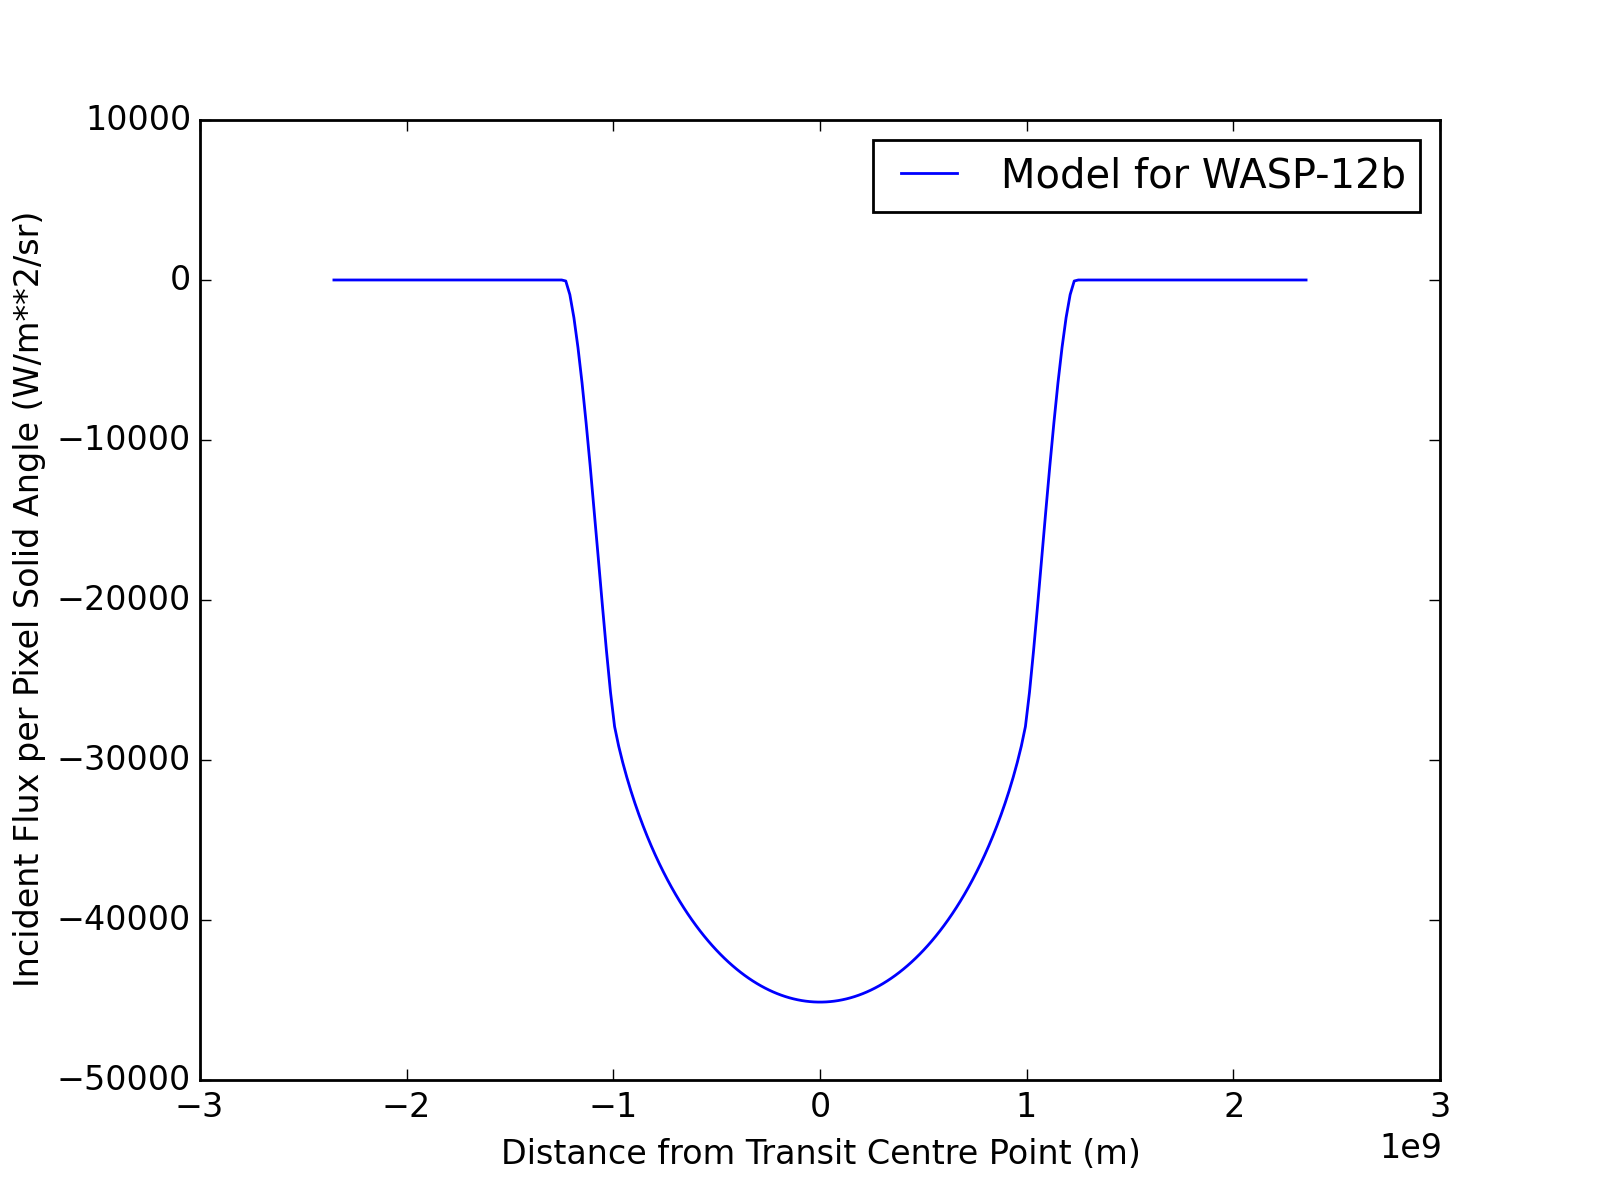
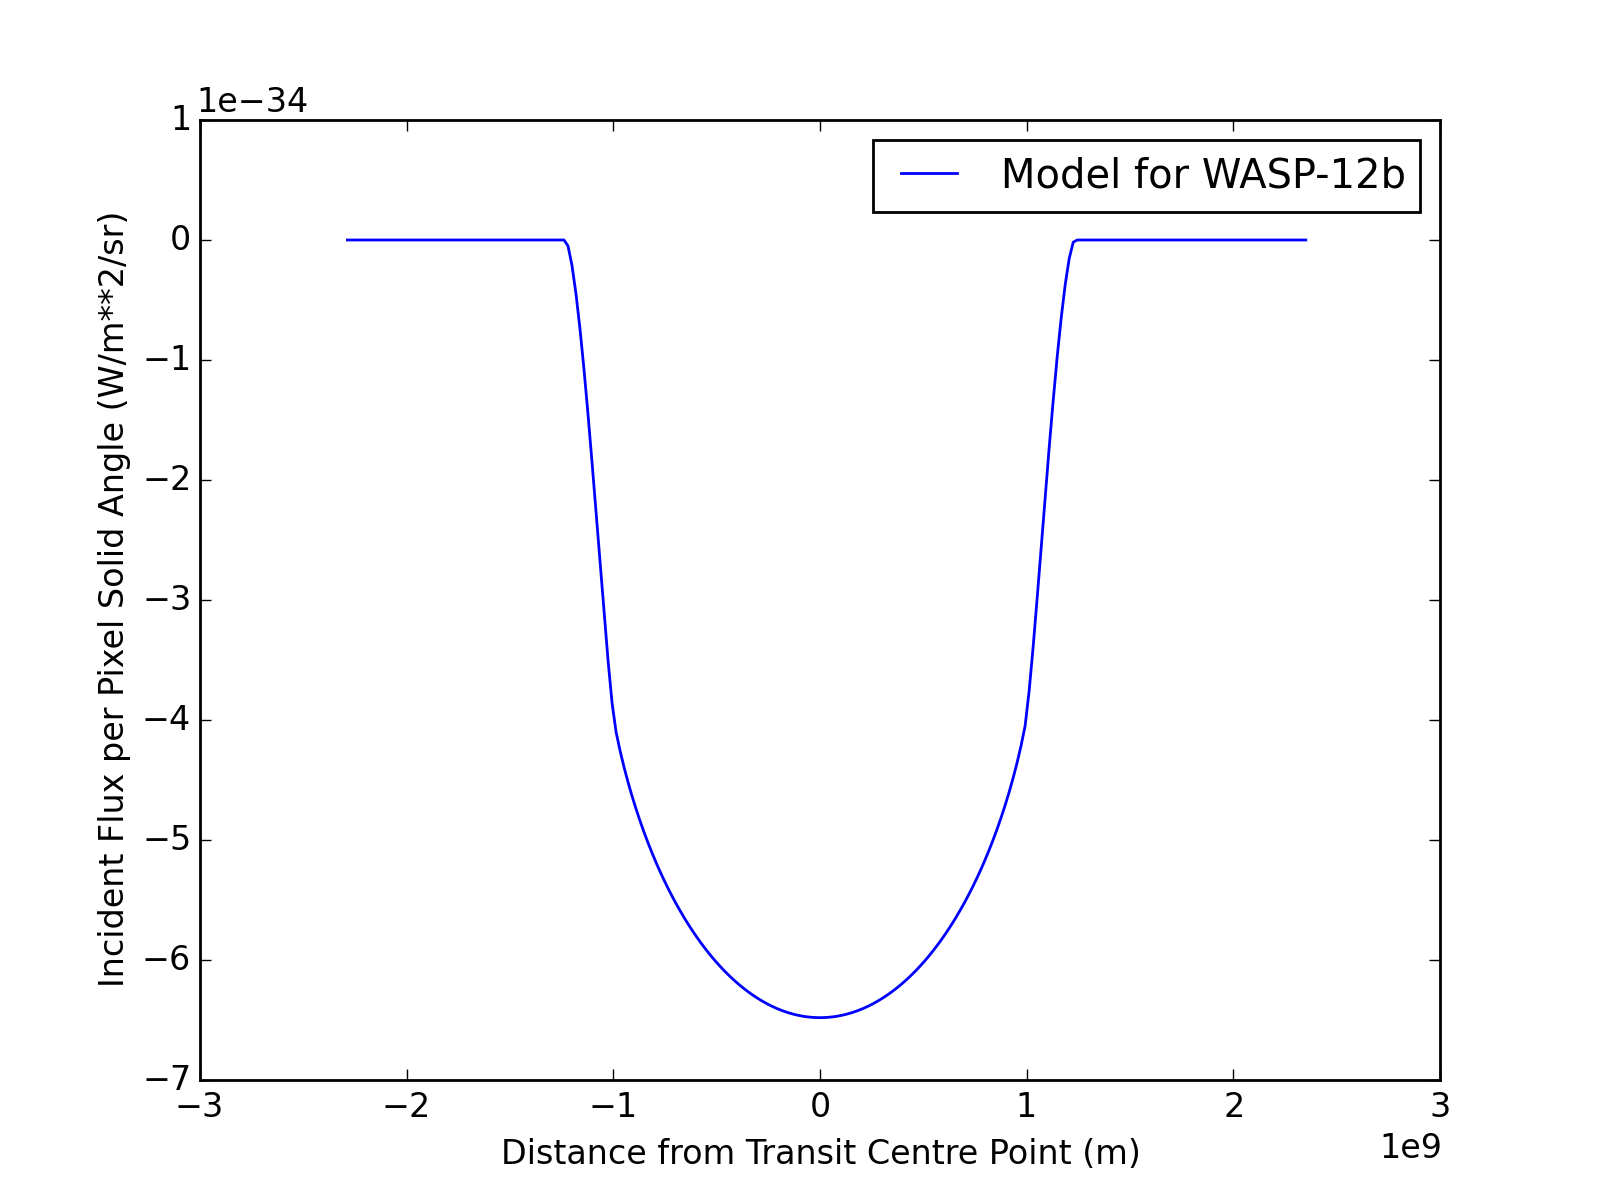
New light curve
Still incorrect flux values, but closer to true values (I hope).

diff --git a/Data/modelv2.py b/Data/modelv2.py
@@ -11,7 +11,7 @@ import numpy as np
 from matplotlib.pyplot import *
 from itertools import product
 
-def model(Mstar, Rstar, Mplanet, Rplanet, radius, obs_end, trans_mid, nobs, a, i, mu, app_mag):
+def model(start, mid, end, nobs, Mstar, Rstar, Mplanet, Rplanet, radius, a, mu):
 
     '''
     Takes a planetary system consisting of an exoplanet of mass M_planet
@@ -30,13 +30,13 @@ def model(Mstar, Rstar, Mplanet, Rplanet, radius, obs_end, trans_mid, nobs, a, i
 
     # Define constants
     G = 6.673e-11 # Universal gravitational constant
-    #m_ref = -1.5 # Apparent magnitude of Sirius
-    #I_ref = (40*3.846e26)/(4*np.pi*(9.46e15)**2) # Intensity of Sirius. Units: W/m**2
+    m_ref = -1.5 # Apparent magnitude of Sirius
+    I_ref = (40*3.846e26)/(4*np.pi*(9.46e15)**2) # Intensity of Sirius. Units: W/m**2
     # N.B. Above is from I = L/4piR**2 where R = distance from Earth
 
     # Determine intensity of star (from apparent magnitude equation)
-    #I_0 = I_ref*10**((2.5)*(m_ref-app_mag))
-    I_0 = 1
+    I_0 = I_ref*10**((2.5)*(m_ref-11.69))
+    #I_0 = 1
 
 
     ##########################################################################
@@ -44,8 +44,7 @@ def model(Mstar, Rstar, Mplanet, Rplanet, radius, obs_end, trans_mid, nobs, a, i
     ##########################################################################
 
     # T is the time between observation start and the transit midpoint
-    time = (obs_end - trans_mid)
-    T = np.linspace(-time, +time, nobs)
+    T = np.linspace(-(mid-start), +(end-mid), nobs)
 
     #########################################################################
     ################# Compute orbital velocities and angles #################
@@ -72,7 +71,7 @@ def model(Mstar, Rstar, Mplanet, Rplanet, radius, obs_end, trans_mid, nobs, a, i
     # Generates arbitrary coordinates in pixels and finds those that fit
     # within radius**2 (i.e. pythagorean). This is then used to calculate
     # these values as a fraction of the exoplanet radius.
-    for x, y in product(np.linspace(-radius, radius, (nobs+1)), repeat=2):
+    for x, y in product(np.linspace(-radius, radius, nobs), repeat=2):
         if x ** 2 + y ** 2 <= radius**2:
             x_coord.append((x/radius)*Rplanet)
             y_coord.append((y/radius)*Rplanet)
@@ -131,8 +130,8 @@ def model(Mstar, Rstar, Mplanet, Rplanet, radius, obs_end, trans_mid, nobs, a, i
     ##########################################################################
        
     # Use simplified form of equation 7 to determine off-transit flux
-    #F = np.ones(len(X_pos))*(I_0*(1-mu))
-    F = np.ones(len(X_pos))
+    F = np.ones(len(X_pos))*(I_0*(1-mu))
+    #F = np.ones(len(X_pos))
 
     # Subtract flux blocked from F to determine total flux per unit pixel solid angle 
     tot_F = F - F_A

diff --git a/Data/wasp12bmodel.py b/Data/wasp12bmodel.py
@@ -12,23 +12,24 @@ from modelv2 import *
 
 from matplotlib.pyplot import *
 
-Mstar = 1.35*1.99e30 # kg
-Rstar = 1.599*6.96e8 # m
+Mstar = 1.35*1.9891e30 # kg
+Rstar = 1.599*6.955e8 # m
 Mplanet = 1.404*1.9e27 # kg
-Rplanet = 1.736*(7e7) # m
+Rplanet = 1.736*(6.9e7) # m
 radius = 4 # 4 pixel radii planet
-obs_end = 36537 # s
-trans_mid = 26257 # s
+end = 36537 # s
+mid = 26257 # s
+start = 16257 # s
 nobs = 240 # Number of observations
 dur = 36537-22157 # Frame 222 - Frame 40
-a = 0.02293*149.5e9 # m
+a = 0.02293*149.6e9 # m
 i = 86.0 # deg
-mu = 0.665
+mu = 0.658
 app_mag = 11.69
 
 # Call model
 #x, y = model(Mstar, Rstar, Mplanet, Rplanet, radius, obs_end, trans_mid, nobs, a, i, mu, app_mag)
-F, X, D = model(Mstar, Rstar, Mplanet, Rplanet, radius, obs_end, trans_mid, nobs, a, i, mu, app_mag)
+F, X, D = model(start, mid, end, nobs, Mstar, Rstar, Mplanet, Rplanet, radius, a, mu)
 #F, D = model(Rstar, a, mu, timestep, app_mag)
 
 # Plot data
